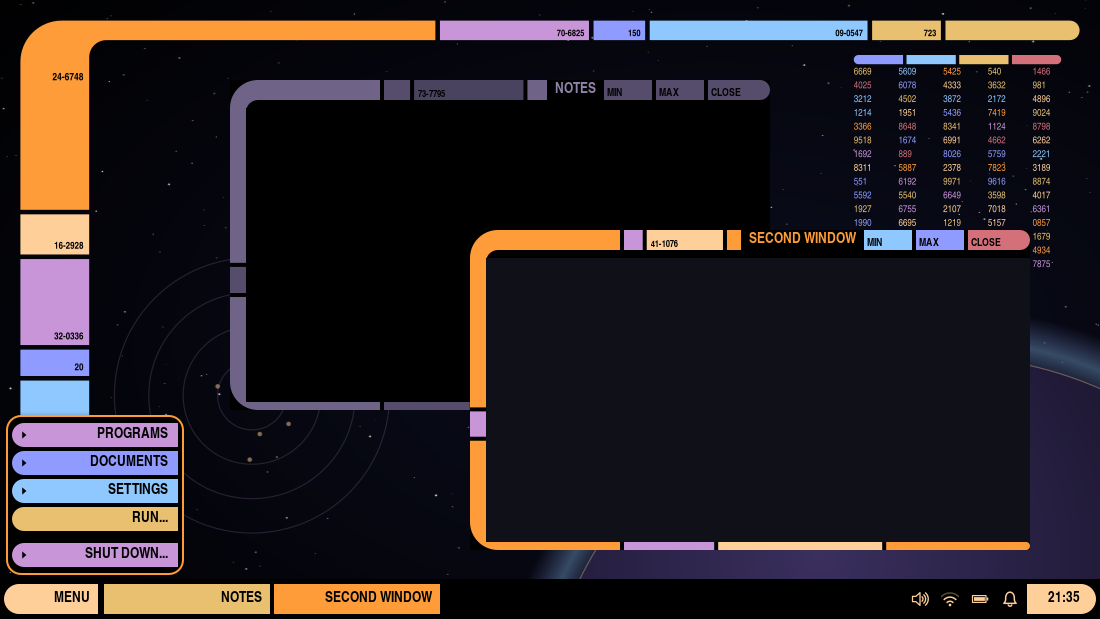
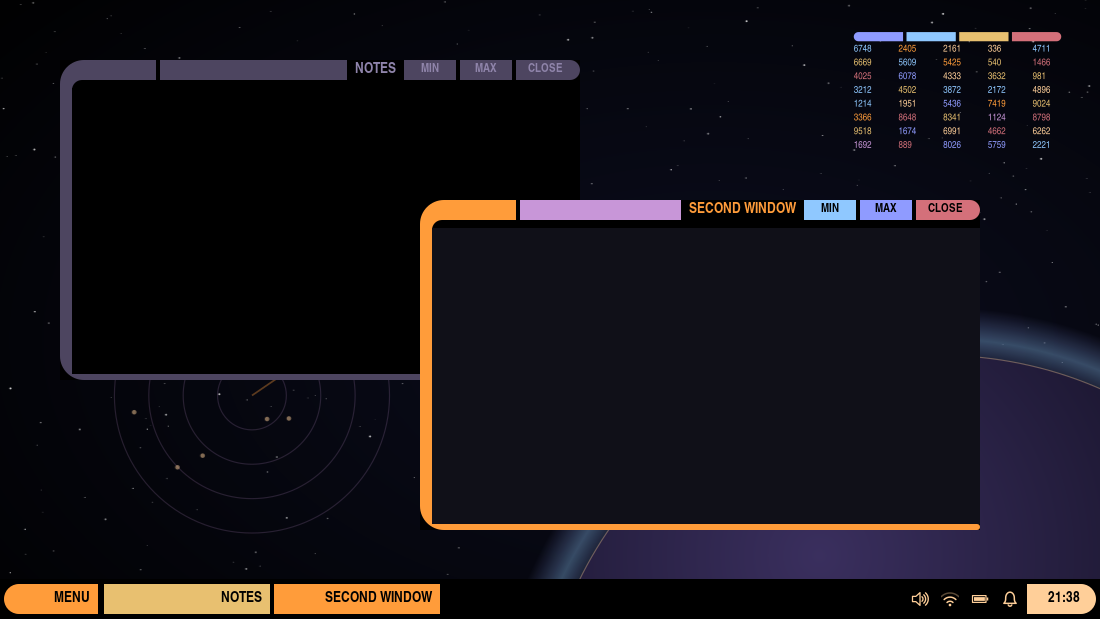
Starship Console: calmer windows, one frame in one colour round the top, the left and the bottom with round elbows, one bar before the title, the buttons with their words in the middle, a window without the focus all in one quiet colour; the wallpaper keeps space, the planet, a corner of readouts an

Changed region(s): [[0.0, 0.0307, 0.9891, 1.0]]

diff --git a/sway/wm/styles.c b/sway/wm/styles.c
@@ -93,9 +93,9 @@ static void get_metrics(const struct tw_theme *t, bool maximized, struct metrics
 		m->radius = tw_theme_int(t, "decoration.corner_radius", defaults[s].radius);
 	}
 	// the console: the thick bar down the left side, where the elbows are
-	m->left = s == STYLE_CONSOLE && !maximized ? 16 : m->side;
+	m->left = s == STYLE_CONSOLE && !maximized ? 12 : m->side;
 	if (s == STYLE_CONSOLE && !maximized) {
-		m->bottom = 8; // the bar along the bottom
+		m->bottom = 6; // the bar along the bottom
 		m->side = 0;   // no line on the right: the window ends in black
 	}
 }
@@ -194,9 +194,9 @@ void tw_style_buttons(const struct tw_theme *t, int width, bool maximized,
 		// blocks at the right end of the top bar, the last with a round end
 		int bh = m.top - 8;
 		int right = width - m.side;
-		b->close = (struct wlr_box){ right - 62, 0, 62, bh };
-		b->maximize = (struct wlr_box){ b->close.x - 4 - 48, 0, 48, bh };
-		b->minimize = (struct wlr_box){ b->maximize.x - 4 - 48, 0, 48, bh };
+		b->close = (struct wlr_box){ right - 64, 0, 64, bh };
+		b->maximize = (struct wlr_box){ b->close.x - 4 - 52, 0, 52, bh };
+		b->minimize = (struct wlr_box){ b->maximize.x - 4 - 52, 0, 52, bh };
 		break;
 	}
 	case STYLE_WIN10:
@@ -619,122 +619,73 @@ static void console_block(cairo_t *cr, double x, double y, double w, double h, b
 	cairo_fill(cr);
 }
 
-/* Small numbers on a block, as the consoles label every part of their frames. */
-static void console_number(cairo_t *cr, const char *text, double x, double y, double w,
-		double h) {
-	if (h < 9 || w < 18) {
-		return;
-	}
-	draw_text(cr, "Antonio, Nimbus Sans Narrow, Sans Condensed Bold 7", text, x, y, w, h,
-		0x000000ff, false, TEXT_PLAIN, 0);
-}
-
 static void draw_console(cairo_t *cr, const struct tw_theme *t,
 		const struct tw_frame *f, const struct metrics *m) {
 	int W = f->width, H = f->height;
 	bool on = f->focused;
-	uint32_t frame = state_color(t, f, "frame", 0xff9c3aff, 0x6f6488ff);
-	uint32_t accent = state_color(t, f, "accent", 0xc896d8ff, 0x564d6cff);
-	uint32_t third = on ? console_color(t, 1) : 0x4a4360ff;
+	// one colour for the frame, a second for the bar before the title; a window
+	// without the focus all in one quiet colour
+	uint32_t frame = state_color(t, f, "frame", 0xff9c3aff, 0x4d4560ff);
+	uint32_t fill = state_color(t, f, "accent", 0xc896d8ff, 0x4d4560ff);
 	double bar = m->top - 8, L = m->left, B = m->bottom;
-	double elbow = W > 500 ? 150 : W * 0.3, outer = 28, inner = 12;
-	// a number for the window, the same for as long as it has its title
-	unsigned hash = 2166136261u;
-	for (const char *c = f->title ? f->title : ""; *c; c++) {
-		hash = (hash ^ (unsigned char)*c) * 16777619u;
-	}
-	char num[16];
+	double elbow = 96, outer = 24, inner = 10;
 
 	cairo_rectangle(cr, 0, 0, W, H);
 	cairo_set_source_u32(cr, tw_theme_color(t, "decoration.face", 0x000000ff));
 	cairo_fill(cr);
 
+	cairo_new_path(cr);
 	if (L > m->side) {
-		// the elbow: the top bar turns down into the bar on the left, round outside,
-		// hollowed inside; the bar goes down to the second elbow at the bottom
-		double split = bar + inner + (H - bar - B - 2 * inner) * 0.55;
-		cairo_new_path(cr);
+		// one shape: the top bar as far as the elbow, round outside, hollow
+		// inside, down the left side and round again into the bar along the bottom
 		cairo_move_to(cr, 0, outer);
 		cairo_arc(cr, outer, outer, outer, M_PI, 3 * M_PI / 2);
 		cairo_line_to(cr, elbow, 0);
 		cairo_line_to(cr, elbow, bar);
 		cairo_line_to(cr, L + inner, bar);
 		cairo_arc_negative(cr, L + inner, bar + inner, inner, -M_PI / 2, M_PI);
-		cairo_line_to(cr, L, split - 2);
-		cairo_line_to(cr, 0, split - 2);
-		cairo_close_path(cr);
-		cairo_set_source_u32(cr, frame);
-		cairo_fill(cr);
-		// the lower part of the left bar in the second colour, and the elbow at
-		// the bottom into the bar along it
-		double low = split + 2 + (H - split) * 0.18;
-		cairo_rectangle(cr, 0, split + 2, L, low - split - 2);
-		cairo_set_source_u32(cr, accent);
-		cairo_fill(cr);
-		cairo_new_path(cr);
-		cairo_move_to(cr, 0, low + 4);
-		cairo_line_to(cr, L, low + 4);
 		cairo_line_to(cr, L, H - B - inner);
 		cairo_arc_negative(cr, L + inner, H - B - inner, inner, M_PI, M_PI / 2);
-		cairo_line_to(cr, elbow, H - B);
-		cairo_line_to(cr, elbow, H);
+		cairo_line_to(cr, W - B / 2, H - B);
+		cairo_arc(cr, W - B / 2, H - B / 2, B / 2, -M_PI / 2, M_PI / 2);
 		cairo_line_to(cr, outer, H);
 		cairo_arc(cr, outer, H - outer, outer, M_PI / 2, M_PI);
 		cairo_close_path(cr);
-		cairo_set_source_u32(cr, frame);
-		cairo_fill(cr);
-		snprintf(num, sizeof(num), "%02u", hash % 97);
-		console_number(cr, num, 2, split + 2, L - 3, low - split - 2);
-		snprintf(num, sizeof(num), "%u", 100 + hash % 900);
-		console_number(cr, num, 2, H - outer - 14, L - 2, 12);
-		// the bottom bar goes on in pieces and ends round
-		double x = elbow + 4;
-		double pieces[] = { 0.22, 0.4 };
-		for (int i = 0; i < 2 && x < W - 30; i++) {
-			double w = (W - elbow) * pieces[i];
-			console_block(cr, x, H - B, w, B, false, false, i ? third : accent);
-			x += w + 4;
-		}
-		if (W - x > B) {
-			console_block(cr, x, H - B, W - x, B, false, true, frame);
-		}
 	} else {
 		// filling the screen: the top bar alone, round at its left end
-		console_block(cr, 0, 0, elbow, bar, true, false, frame);
+		cairo_arc(cr, bar / 2, bar / 2, bar / 2, M_PI / 2, 3 * M_PI / 2);
+		cairo_line_to(cr, elbow, 0);
+		cairo_line_to(cr, elbow, bar);
+		cairo_close_path(cr);
 	}
+	cairo_set_source_u32(cr, frame);
+	cairo_fill(cr);
 
 	struct tw_buttons b;
 	frame_buttons(t, f, W, &b);
 	double end = b.minimize.width > 0 ? b.minimize.x : b.close.x;
-	// the title in capitals at the right end of the top bar, before the buttons
+	// the title in capitals on black, right before the buttons; the bar fills
+	// the room from the elbow to it
 	const char *font = tw_theme_str(t, "decoration.title_font",
 		"Antonio, Nimbus Sans Narrow, Sans Condensed Bold 11");
 	double title_end = end - 8, title_w = 0;
 	if (f->title && *f->title) {
 		char *upper = g_utf8_strup(f->title, -1);
-		double room = title_end - (elbow + 60);
+		double room = title_end - (elbow + 30);
 		if (room > 20) {
 			PangoLayout *layout = make_layout(cr, font, upper, room);
 			int tw, th;
 			pango_layout_get_pixel_size(layout, &tw, &th);
 			g_object_unref(layout);
 			title_w = tw < room ? tw : room;
-			draw_text(cr, font, upper, title_end - title_w, -1, title_w + 1, bar + 2,
+			draw_text(cr, font, upper, title_end - title_w, 0, title_w + 1, bar,
 				state_color(t, f, "title_fg", 0xff9c3aff, 0x8f84aaff), false, TEXT_PLAIN, 0);
 		}
 		g_free(upper);
 	}
-	// from the elbow to the title: a short block, a long one, a short one
-	double from = elbow + 4, to = title_end - title_w - 8;
-	if (to - from > 60) {
-		double a = (to - from) * 0.16, c = (to - from) * 0.12;
-		console_block(cr, from, 0, a, bar, false, false, accent);
-		console_block(cr, from + a + 4, 0, to - from - a - c - 8, bar, false, false, third);
-		console_block(cr, to - c, 0, c, bar, false, false, frame);
-		snprintf(num, sizeof(num), "%02u-%04u", hash % 89, hash % 9973);
-		console_number(cr, num, from + a + 8, bar / 2, 60, bar / 2);
-	} else if (to - from > 8) {
-		console_block(cr, from, 0, to - from, bar, false, false, accent);
+	double to = title_end - title_w - (title_w > 0 ? 8 : 0);
+	if (to - elbow - 4 > 6) {
+		console_block(cr, elbow + 4, 0, to - elbow - 4, bar, false, false, fill);
 	}
 
 	struct {
@@ -752,7 +703,7 @@ static void draw_console(cairo_t *cr, const struct tw_theme *t,
 		if (box->width <= 0) {
 			continue;
 		}
-		uint32_t c = on ? console_color(t, blocks[i].color) : 0x564d6cff;
+		uint32_t c = on ? console_color(t, blocks[i].color) : 0x4d4560ff;
 		bool hover = f->hover == blocks[i].hit, pressed = hover && f->pressed == blocks[i].hit;
 		bool last = blocks[i].hit == TW_HIT_CLOSE;
 		console_block(cr, box->x, 0, box->width, bar, false, last, c);
@@ -761,10 +712,9 @@ static void draw_console(cairo_t *cr, const struct tw_theme *t,
 				tw_theme_color(t, pressed ? "decoration.button.pressed" :
 				"decoration.button.hover", pressed ? 0x00000040 : 0xffffff50));
 		}
-		// the word at the lower right of the block
-		draw_text(cr, "Antonio, Nimbus Sans Narrow, Sans Condensed Bold 8", blocks[i].label,
-			box->x + 3, bar * 0.4, box->width - (last ? bar / 2 + 3 : 6), bar * 0.6,
-			0x000000ff, false, TEXT_PLAIN, 0);
+		draw_text(cr, "Antonio, Nimbus Sans Narrow, Sans Condensed Bold 9", blocks[i].label,
+			box->x, 0, box->width - (last ? bar / 4 : 0), bar, on ? 0x000000ff : 0x8f84aaff,
+			true, TEXT_PLAIN, 0);
 	}
 }
 

diff --git a/tools/gen-console-wallpaper.py b/tools/gen-console-wallpaper.py
@@ -3,9 +3,8 @@
 
     tools/gen-console-wallpaper.py      writes themes/console/wallpaper.svg
 
-Deep space with stars and the glowing limb of a planet, framed along the top
-and the left by the bars of the console: an elbow, blocks of colour with
-numbers on them, columns of readouts. An original design; the numbers are
+Deep space with stars and the glowing limb of a planet, a panel of readouts in
+a corner and the faint rings of a sensor; the windows bring the bars. An original design; the numbers are
 random. The file is committed, so building tileWin does not need Python.
 """
 import math
@@ -69,35 +68,9 @@ out.append('<circle cx="%d" cy="%d" r="%d" fill="url(#planet)"/>' % (cx, cy, pr)
 out.append('<circle cx="%d" cy="%d" r="%d" fill="none" stroke="#ffcf99" stroke-opacity="0.35" '
            'stroke-width="2"/>' % (cx, cy, pr))
 
-# the frame: the bar along the top turning down into the bar on the left
-m, top_h, side_w, outer, inner = 36, 34, 120, 72, 30
-left_end = 760
-out.append('<path d="M%d %d A%d %d 0 0 1 %d %d H%d V%d H%d A%d %d 0 0 0 %d %d V%d H%d V%d Z" '
-           'fill="%s"/>' % (m, m + outer, outer, outer, m + outer, m, left_end, m + top_h,
-                            m + side_w + inner, inner, inner, m + side_w, m + top_h + inner,
-                            m + 330, m, m + 330, COLORS[0]))
-text(m + side_w - 10, m + top_h + inner + 40, number(), 18)
-# the top bar goes on in blocks to the right end, which is round
-x = left_end + 8
-for i, w in enumerate([260, 90, 380, 120]):
-    block(x, m, w, top_h, COLORS[(i + 2) % 7])
-    text(x + w - 8, m + top_h - 7, number() if i % 2 == 0 else '%03d' % rng.randrange(1000), 16)
-    x += w + 8
-block(x, m, W - m - x, top_h, COLORS[5], right=True)
-# the bar on the left in blocks of different heights, numbered
-y = m + 338
-heights = [70, 150, 46, 210, 90, 120]
-for i, h in enumerate(heights):
-    if y + h > H - 120:
-        break
-    block(m, y, side_w, h, COLORS[(i + 1) % 7])
-    text(m + side_w - 10, y + h - 10, number() if h > 60 else '%02d' % rng.randrange(100), 17)
-    y += h + 8
-block(m, y, side_w, H - 90 - y, COLORS[3])
-
 # readouts on the right, under the top bar
-rx, ry = 1490, 130
-for row in range(15):
+rx, ry = 1490, 90
+for row in range(8):
     xx = rx
     for col in range(5):
         s = '%0*d' % (rng.choice([2, 3, 4]), rng.randrange(10000))
@@ -106,7 +79,7 @@ for row in range(15):
 # a small row of blocks above them, as a button bar
 bx = 1490
 for i in range(4):
-    block(bx, 100 - 4, 86, 16, COLORS[(i + 3) % 7], left=i == 0, right=i == 3)
+    block(bx, 56, 86, 16, COLORS[(i + 3) % 7], left=i == 0, right=i == 3)
     bx += 92
 
 # the rings of a sensor display, faint, on the left
